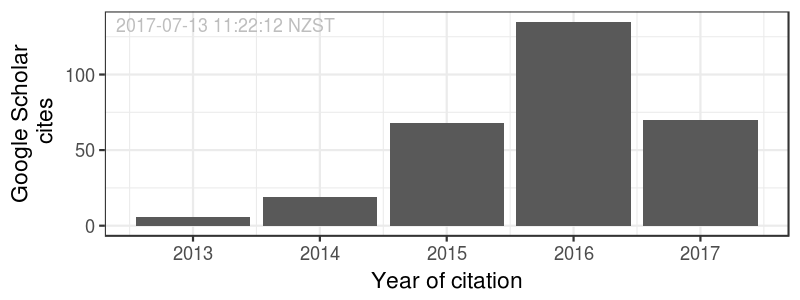
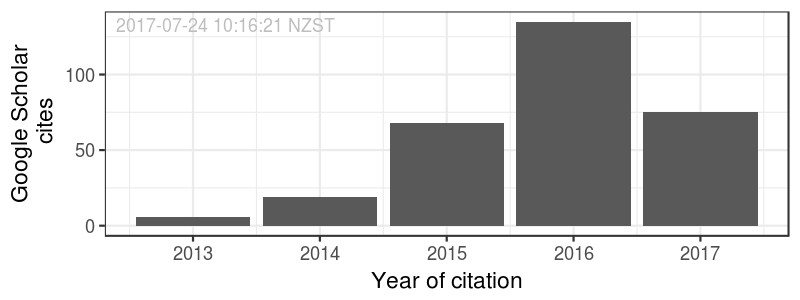
updated CV

Changed region(s): [[0.7812, 0.36, 0.9688, 0.42], [0.2188, 0.06, 0.375, 0.12]]

diff --git a/index.md b/index.md
@@ -119,7 +119,7 @@ A course designed to walk Research Supervisors through the frameworks and pragma
 
 * Journal articles: __26__	
 * H-index: __10__
-* Citations: __303__
+* Citations: __308__
 
 ## Publications
 
